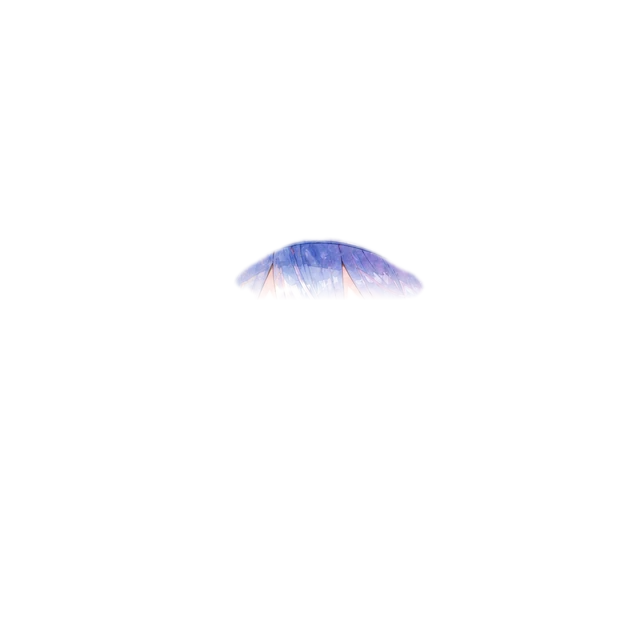
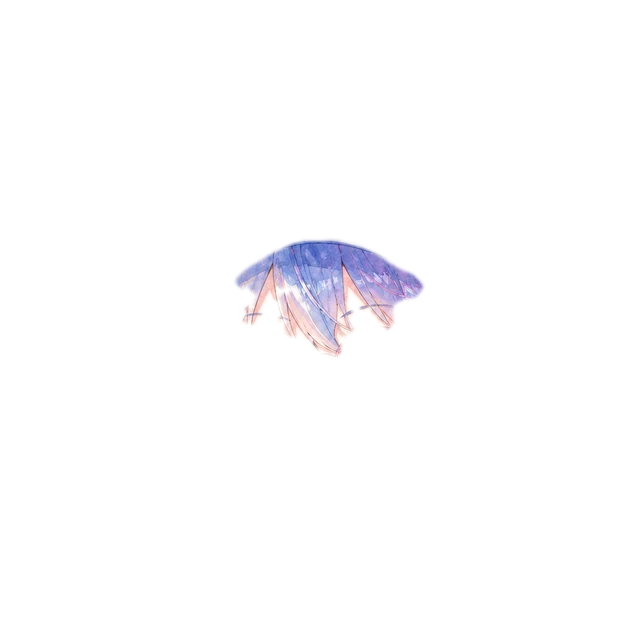
リグ: 前髪と眉を分離(眉の暗い線だけ前髪から外す・前髪の裏は前髪無し版)。フェード帯は撤回

Changed region(s): [[0.375, 0.4062, 0.6562, 0.5625]]

diff --git a/public/ayn-rig/rig.json.js b/public/ayn-rig/rig.json.js
@@ -1,1 +1,1 @@
-window.AYN_RIG = {"version": 1, "size": 640, "source": "AYN watercolor bust-up (mks ayn_s2) + custom GPT diff variants", "face": {"cx": 321, "eyes": [229, 325, 413, 378], "mouth": [305, 415, 346, 435], "neck_y": 511}, "layers": [{"name": "body", "file": "body.webp", "z": 0, "group": "body"}, {"name": "head", "file": "head.webp", "z": 1, "group": "head"}, {"name": "hair_L", "file": "hair_L.webp", "z": 2, "group": "head", "pivot": [192, 200], "physics": {"type": "pendulum", "stiffness": 9, "damping": 1.3, "max_deg": 20, "wind": 3.8, "phase": 0.0}}, {"name": "hair_R", "file": "hair_R.webp", "z": 3, "group": "head", "pivot": [470, 236], "physics": {"type": "pendulum", "stiffness": 9, "damping": 1.3, "max_deg": 20, "wind": 3.8, "phase": 1.7}}, {"name": "eyes_closed", "file": "eyes_closed.webp", "z": 4, "group": "head", "switch": "blink"}, {"name": "mouth_open", "file": "mouth_open.webp", "z": 5, "group": "head", "switch": "mouth"}, {"name": "eyes_happy", "file": "eyes_happy.webp", "z": 6, "group": "head", "switch": "expr"}, {"name": "eyes_wink", "file": "eyes_wink.webp", "z": 7, "group": "head", "switch": "expr"}, {"name": "eyes_up", "file": "eyes_up.webp", "z": 8, "group": "head", "switch": "expr"}, {"name": "face_sad", "file": "face_sad.webp", "z": 9, "group": "head", "switch": "expr"}, {"name": "face_surprise", "file": "face_surprise.webp", "z": 10, "group": "head", "switch": "expr"}, {"name": "face_shy", "file": "face_shy.webp", "z": 11, "group": "head", "switch": "expr"}, {"name": "face_angry", "file": "face_angry.webp", "z": 12, "group": "head", "switch": "expr"}, {"name": "face_sleepy", "file": "face_sleepy.webp", "z": 13, "group": "head", "switch": "expr"}, {"name": "hair_front", "file": "hair_front.webp", "z": 20, "group": "head", "pivot": [321, 249], "physics": {"type": "pendulum", "stiffness": 9, "damping": 1.5, "max_deg": 10, "wind": 12.0, "wind_freq": 0.55, "phase": 0.9}}], "expressions": {"neutral": {}, "happy": {"layers": ["eyes_happy"], "bangs": 5}, "wink": {"layers": ["eyes_wink"], "bangs": 7}, "think": {"layers": ["eyes_up"], "tilt": -6, "bangs": -6}, "sad": {"layers": ["face_sad"], "tilt": 4, "bangs": 4}, "surprise": {"layers": ["face_surprise"], "bangs": 0}, "kubikashige": {"layers": ["eyes_happy"], "tilt": 10, "bangs": 8}, "shy": {"layers": ["face_shy"], "tilt": 3, "bangs": 5}, "angry": {"layers": ["face_angry"], "bangs": -4}, "sleepy": {"layers": ["face_sleepy"], "tilt": -5, "bangs": -5}}, "groups": {"head": {"pivot": [321, 511], "tilt_deg": 4.0, "breathe_px": 6}, "body": {"pivot": [321, 640], "breathe_px": 3}}};
+window.AYN_RIG = {"version": 1, "size": 640, "source": "AYN watercolor bust-up (mks ayn_s2) + custom GPT diff variants", "face": {"cx": 321, "eyes": [229, 325, 413, 378], "mouth": [305, 415, 346, 435], "neck_y": 511}, "layers": [{"name": "body", "file": "body.webp", "z": 0, "group": "body"}, {"name": "head", "file": "head.webp", "z": 1, "group": "head"}, {"name": "hair_L", "file": "hair_L.webp", "z": 2, "group": "head", "pivot": [192, 200], "physics": {"type": "pendulum", "stiffness": 9, "damping": 1.3, "max_deg": 20, "wind": 3.8, "phase": 0.0}}, {"name": "hair_R", "file": "hair_R.webp", "z": 3, "group": "head", "pivot": [470, 236], "physics": {"type": "pendulum", "stiffness": 9, "damping": 1.3, "max_deg": 20, "wind": 3.8, "phase": 1.7}}, {"name": "eyes_closed", "file": "eyes_closed.webp", "z": 4, "group": "head", "switch": "blink"}, {"name": "mouth_open", "file": "mouth_open.webp", "z": 5, "group": "head", "switch": "mouth"}, {"name": "eyes_happy", "file": "eyes_happy.webp", "z": 6, "group": "head", "switch": "expr"}, {"name": "eyes_wink", "file": "eyes_wink.webp", "z": 7, "group": "head", "switch": "expr"}, {"name": "eyes_up", "file": "eyes_up.webp", "z": 8, "group": "head", "switch": "expr"}, {"name": "face_sad", "file": "face_sad.webp", "z": 9, "group": "head", "switch": "expr"}, {"name": "face_surprise", "file": "face_surprise.webp", "z": 10, "group": "head", "switch": "expr"}, {"name": "face_shy", "file": "face_shy.webp", "z": 11, "group": "head", "switch": "expr"}, {"name": "face_angry", "file": "face_angry.webp", "z": 12, "group": "head", "switch": "expr"}, {"name": "face_sleepy", "file": "face_sleepy.webp", "z": 13, "group": "head", "switch": "expr"}, {"name": "hair_front", "file": "hair_front.webp", "z": 20, "group": "head", "pivot": [321, 249], "physics": {"type": "pendulum", "stiffness": 9, "damping": 1.5, "max_deg": 14, "wind": 16.0, "wind_freq": 0.55, "phase": 0.9}}], "expressions": {"neutral": {}, "happy": {"layers": ["eyes_happy"], "bangs": 5}, "wink": {"layers": ["eyes_wink"], "bangs": 7}, "think": {"layers": ["eyes_up"], "tilt": -6, "bangs": -6}, "sad": {"layers": ["face_sad"], "tilt": 4, "bangs": 4}, "surprise": {"layers": ["face_surprise"], "bangs": 0}, "kubikashige": {"layers": ["eyes_happy"], "tilt": 10, "bangs": 8}, "shy": {"layers": ["face_shy"], "tilt": 3, "bangs": 5}, "angry": {"layers": ["face_angry"], "bangs": -4}, "sleepy": {"layers": ["face_sleepy"], "tilt": -5, "bangs": -5}}, "groups": {"head": {"pivot": [321, 511], "tilt_deg": 4.0, "breathe_px": 6}, "body": {"pivot": [321, 640], "breathe_px": 3}}};
